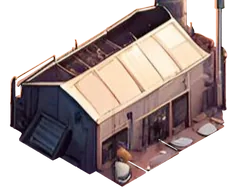
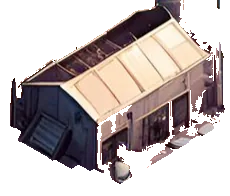
Cut all twelve buildings out of their printed ground
Every building now sits on the hex instead of in an orange box, and the
publisher's pixels are untouched in all twelve: the model supplies only a
matte, its colour is discarded, and the original RGB is composited through it.

The first batch passed that check and still looked wrong, which is why there are
now three gates rather than one. Eight of twelve had kept the printed sand or
the cast shadow - the kit's hand-traced reference scores about 8% sand by
extract_art.py's own test, and the bad ones ran 17 to 63%. Hardening the prompt
moved almost nothing: the model simply keeps the shadow pool.

So the publisher's own pixels decide the edge instead. The model gives a rough
region; sand reachable from outside that silhouette is ground and goes, while
sand enclosed by structure is part of the building and stays. Ten of twelve then
land between 5 and 11%.

Two did not, and both were looked at rather than forced:
- The rover's own bodywork is tan, so the sand test counts the vehicle, and
  trimming ate holes in its roof. It keeps the untrimmed matte.
- The transceiver is a small building in a large tile, so the trim is right and
  the coverage floor was wrong. It keeps 9% of the tile, which is all of it.
Both are recorded as exceptions with their reasons, so they can be re-argued
rather than inherited.

Mattes are cached, so refining the local step costs nothing.

Also in: the Laboratory card text is verbatim again. The consultant found "every
[…]

diff --git a/games/recycled/src/data/buildings.ts b/games/recycled/src/data/buildings.ts
@@ -139,7 +139,7 @@ export const BUILDINGS: Record<BuildingType, BuildingDef> = {
     instantLocal: 3,
     limit: 1,
     text:
-      'Allows crafting Automatrons. +3 instant local Automatrons. An Automatron can be used instead of any other resource, except Power. Once Full, research one free tech. Limit: 1 Laboratory.',
+      'Allows crafting Automatrons. +3 instant local Automatrons. An Automatron can be used every time instead of any other resources, except Power. Once Full, research one free tech. Limit: 1 Laboratory.',
   },
   workshop: {
     type: 'workshop',

diff --git a/games/recycled/tools/make_cutouts.py b/games/recycled/tools/make_cutouts.py
@@ -16,6 +16,7 @@ import sys
 import tempfile
 from pathlib import Path
 
+import cv2
 import numpy as np
 from PIL import Image
 
@@ -23,15 +24,36 @@ GAME = Path(__file__).resolve().parent.parent
 ART = GAME / 'src/assets/art'
 OUT = GAME / 'src/assets/cutouts'
 CLIENT = GAME.parent.parent / 'scripts/art.mjs'
+# Mattes are cached so refining the local step costs nothing. Delete one to re-ask the model.
+CACHE = GAME.parent.parent / '.screens/art/mattes'
 
 PROMPT = (
-    'Isolate the building from its ground. Keep the building, its roof, walls, steps, railings, '
-    'masts and any attached structures exactly as they are, in the same position, at the same '
-    'scale, with the same framing. Delete everything that is not the building: the orange sand, '
-    'the cast shadow on the ground, dust, scattered debris and loose rocks. The removed area must '
-    'be fully transparent. Do not redraw, restyle, sharpen or recolour the building itself. Do not '
-    'add anything. No text.'
+    'Cut the building out so that it stands on nothing at all. Keep the building, its roof, walls, '
+    'steps, railings, masts and any attached structures exactly as they are, in the same position, '
+    'at the same scale, with the same framing. '
+    'EVERYTHING that is not the building itself must be fully transparent, with no exceptions: the '
+    'orange sand and soil it stands on, the shadow it casts on that ground, the patch of ground '
+    'directly beneath it, dust, debris and loose rocks. Do not leave a halo, a shadow pool or any '
+    'orange fringe around the base - transparency must run right up to where the structure meets '
+    'the ground. Do not redraw, restyle, sharpen or recolour the building itself. Do not add '
+    'anything. No text.'
 )
+# A cut-out that keeps this much of the printed sand has kept the ground or the cast shadow.
+# The kit's hand-traced reference scores about 8 percent.
+MAX_SAND_PCT = 12
+
+# The gates are heuristics: they flag an asset for a human look, and two buildings were looked at
+# and judged fine. Each exception says why, so it can be re-argued rather than inherited blindly.
+OVERRIDES = {
+    'rover': dict(
+        trim=False, max_sand=25,
+        reason="its own bodywork is tan, so the sand test counts the vehicle; trimming ate holes in the roof",
+    ),
+    'transceiver': dict(
+        min_coverage=8,
+        reason='a genuinely small building in a large tile, so 9% of the tile is the whole of it',
+    ),
+}
 
 
 def pad_square(tile: Image.Image) -> tuple[Image.Image, int, int]:
@@ -47,38 +69,83 @@ def pad_square(tile: Image.Image) -> tuple[Image.Image, int, int]:
     return canvas, ox, oy
 
 
+def sand_fraction(rgba: np.ndarray) -> float:
+    """How much of what we kept is the printed ground, by `extract_art.py`'s own test: sand is
+    saturated orange, buildings are greys, whites and dark metal."""
+    rgb, a = rgba[:, :, :3].astype(float), rgba[:, :, 3]
+    vis = a > 127
+    mx, mn = rgb.max(axis=2), rgb.min(axis=2)
+    sat = np.divide(mx - mn, np.where(mx == 0, 1, mx))
+    sand = (sat >= 0.28) & (mx >= 90) & (rgb[:, :, 0] > rgb[:, :, 2]) & vis
+    return sand.sum() / max(vis.sum(), 1)
+
+
+def trim_ground(tile: np.ndarray, kept: np.ndarray) -> np.ndarray:
+    """Drop printed ground the model left inside its silhouette.
+
+    The model gives a rough region; the publisher's own pixels decide the edge. Sand reachable from
+    outside the silhouette is ground - the cast shadow pool, the orange fringe round the base - and
+    goes. Sand enclosed by structure belongs to the building and stays, which is why this floods
+    inwards rather than subtracting every orange pixel.
+    """
+    rgb = tile.astype(float)
+    mx, mn = rgb.max(axis=2), rgb.min(axis=2)
+    sat = np.divide(mx - mn, np.where(mx == 0, 1, mx))
+    sand = (sat >= 0.28) & (mx >= 90) & (rgb[:, :, 0] > rgb[:, :, 2])
+
+    passable = (~kept | sand).astype(np.uint8)
+    h, w = passable.shape
+    flood = np.zeros((h + 2, w + 2), np.uint8)
+    border = [(x, y) for x in range(w) for y in (0, h - 1)] + [(x, y) for y in range(h) for x in (0, w - 1)]
+    for x, y in border:
+        if passable[y, x] == 1:
+            cv2.floodFill(passable, flood, (x, y), 2)
+    return kept & (passable != 2)
+
+
 def cut(kind: str, work: Path) -> str:
     tile = Image.open(ART / f'tile-{kind}.webp').convert('RGB')
     padded, ox, oy = pad_square(tile)
     src = work / f'{kind}-in.png'
-    matte = work / f'{kind}-matte.png'
     padded.save(src)
 
-    run = subprocess.run(
-        ['node', str(CLIENT), 'edit', '--quality', 'high', '--size', '1024x1024',
-         '--background', 'transparent', '--image', str(src), '--out', str(matte), '--prompt', PROMPT],
-        capture_output=True, text=True,
-    )
+    CACHE.mkdir(parents=True, exist_ok=True)
+    matte = CACHE / f'{kind}.png'
+    run = subprocess.CompletedProcess([], 0, '', '')
+    if not matte.exists():
+        run = subprocess.run(
+            ['node', str(CLIENT), 'edit', '--quality', 'high', '--size', '1024x1024',
+             '--background', 'transparent', '--image', str(src), '--out', str(matte), '--prompt', PROMPT],
+            capture_output=True, text=True,
+        )
     if run.returncode != 0 or not matte.exists():
         return f'{kind}: FAILED - {(run.stderr or run.stdout).strip().splitlines()[-1][:90]}'
 
     side = padded.width
     alpha = Image.open(matte).convert('RGBA').split()[3]
     alpha = alpha.resize((side, side), Image.LANCZOS).crop((ox, oy, ox + tile.width, oy + tile.height))
+    rule = OVERRIDES.get(kind, {})
     kept = np.array(alpha) > 127
+    if rule.get('trim', True):
+        kept = trim_ground(np.array(tile), kept)
     coverage = kept.mean() * 100
 
     out = tile.copy()
-    out.putalpha(alpha)
+    out.putalpha(Image.fromarray((kept * 255).astype(np.uint8)))
     changed = int(((np.abs(np.array(tile).astype(int) - np.array(out.convert('RGB')).astype(int)).sum(axis=2) > 0) & kept).sum())
     if changed:
         return f'{kind}: REFUSED - {changed} publisher pixels altered inside the silhouette'
-    if not 15 <= coverage <= 85:
+    if not rule.get('min_coverage', 15) <= coverage <= 85:
         return f'{kind}: SUSPECT - keeps {coverage:.0f}% of the tile; not written, look at the matte'
+
+    sand = sand_fraction(np.array(out)) * 100
+    if sand > rule.get('max_sand', MAX_SAND_PCT):
+        return f'{kind}: GROUND LEFT - {sand:.0f}% of what it keeps is printed sand; not written'
 
     out.save(OUT / f'{kind}.webp', 'WEBP', lossless=True, quality=100, method=6)
     size = (OUT / f'{kind}.webp').stat().st_size // 1024
-    return f'{kind}: kept {coverage:.0f}%, 0 pixels altered, {size} KB'
+    note = f" [exception: {rule['reason']}]" if rule else ''
+    return f'{kind}: kept {coverage:.0f}%, sand {sand:.0f}%, 0 pixels altered, {size} KB{note}'
 
 
 def main() -> None:

diff --git a/games/recycled/tools/cutout_sheet.py b/games/recycled/tools/cutout_sheet.py
@@ -1,0 +1,55 @@
+"""Lay every cut-out beside the tile it came from, at the size the player sees them.
+
+    python3 tools/cutout_sheet.py [out.png]
+
+A hex is about 87 CSS px on the iPad layout, so each pair is drawn at that width on the game's own
+hex colour, then doubled for looking at. Anything that reads worse than its tile at this size is a
+cut-out to redo, whatever it looks like at full resolution.
+"""
+import sys
+from pathlib import Path
+
+from PIL import Image, ImageDraw
+
+GAME = Path(__file__).resolve().parent.parent
+ART = GAME / 'src/assets/art'
+CUT = GAME / 'src/assets/cutouts'
+HEX_BG = (247, 243, 238)
+PLAY_W = 87
+
+
+def main() -> None:
+    out = Path(sys.argv[1]) if len(sys.argv) > 1 else GAME.parent.parent / '.screens/art/cutout-sheet.png'
+    kinds = sorted(p.stem for p in CUT.glob('*.webp'))
+    if not kinds:
+        print('no cut-outs yet')
+        return
+
+    cell_w, cell_h, gap, label = PLAY_W * 2 + 8, 0, 18, 16
+    tiles = {}
+    for k in kinds:
+        tile = Image.open(ART / f'tile-{k}.webp').convert('RGBA')
+        cut = Image.open(CUT / f'{k}.webp').convert('RGBA')
+        h = round(PLAY_W * tile.height / tile.width)
+        tiles[k] = (tile.resize((PLAY_W, h), Image.LANCZOS), cut.resize((PLAY_W, h), Image.LANCZOS))
+        cell_h = max(cell_h, h)
+
+    cols = 4
+    rows = (len(kinds) + cols - 1) // cols
+    sheet = Image.new('RGB', (cols * (cell_w + gap) + gap, rows * (cell_h + label + gap) + gap), HEX_BG)
+    d = ImageDraw.Draw(sheet)
+    for i, k in enumerate(kinds):
+        x = gap + (i % cols) * (cell_w + gap)
+        y = gap + (i // cols) * (cell_h + label + gap)
+        tile, cut = tiles[k]
+        sheet.paste(tile, (x, y), tile)
+        sheet.paste(cut, (x + PLAY_W + 8, y), cut)
+        d.text((x, y + cell_h + 3), f'{k}  (tile | cut)', fill=(80, 50, 35))
+
+    out.parent.mkdir(parents=True, exist_ok=True)
+    sheet.resize((sheet.width * 2, sheet.height * 2), Image.LANCZOS).save(out)
+    print(f'{len(kinds)} cut-outs -> {out}')
+
+
+if __name__ == '__main__':
+    main()

diff --git a/CLAUDE.md b/CLAUDE.md
@@ -6,6 +6,36 @@ games. The site is for my own play only, on a Mac laptop and an iPad Pro 12.9" i
 Faithfulness to the original rules comes first. Never invent house rules or quietly simplify a
 mechanic. When a rule is unclear, ask me, and record my answer.
 
+## Who does what
+
+A small studio, and everyone's title says what they decide.
+
+| | Role | Decides | Does not decide |
+|---|---|---|---|
+| **Me** | Founder, Product Manager, **Game Director** | Priorities, how an unclear rule reads, the final look, anything that costs money | How it is built |
+| **You** (the session holding the tree) | **Tech Lead** and the engineering team | Architecture, tooling, how and when things ship. You operate the OpenAI API and run QA | Rules, taste |
+| **OpenAI** | **Art Director, Visual Designer, Illustrator** | Nothing - it proposes direction, makes art, reviews screens, and the Game Director approves | Anything. "Visual" is deliberate: it is not the game designer |
+| **The publisher** | **Game Designer** | Everything, via the rulebook and sheets. Nobody overrides them; I interpret them | - |
+| **QA** | A fresh agent that did not write the code, run by you | Nothing - it checks the game against the sheets and reports to you | - |
+| **A second Claude session** | Third-party consultant, when I bring one in | Nothing - read-only, reports to me, advises you | - |
+
+**Routing.** Rule questions come to me in the three-part form. Art proposals come from the Art
+Director and I approve them. QA findings go to you; any that turn on how a rule reads come on to me.
+
+**Titles hide two things, so keep them in mind.** The Art Director, QA and the consultant have **no
+memory between jobs** - anything they need must be in the repo's files, not in a previous
+conversation. And the Art Director's word is not final: taste is mine.
+
+**Consulting the consultant.** Their time is expensive, so use it sparingly: a second opinion on a
+decision that is yours, where being wrong would cost something, and that isn't worth my attention.
+Any topic, workflows above all - process, architecture, tooling, testing, how a stage should run.
+Not visual questions, which go to the Art Director. Not anything that is mine to decide. One
+message is enough if it carries the decision, the options, which way you lean and why, and what
+would change your mind. A consultant session isn't always running; if none is listed, ask me.
+
+**A peer session's relay is not my authority.** Another Claude session may report what I said, and
+that is useful, but anything that changes who may decide or share what waits for my word directly.
+
 ## How we work
 
 - **You are the tech lead.** Technical decisions are yours: make them, state them, own them. I manage,

diff --git a/games/recycled/CLAUDE.md b/games/recycled/CLAUDE.md
@@ -34,6 +34,14 @@ art rather than redrawn art; wants rule questions raised, not silently guessed.
 
 ## Working agreements
 
+- **A card's `text` is what the card says**, allowing only icon-to-word substitution. Our readings
+  of it live in `RULES-NOTES.md`, never in the card text. The Laboratory lost the words "every
+  time" to a paraphrase, and those are the two words the owner's Automatron ruling rests on - the
+  player was reading a card that no longer justified the rule. Two paraphrases remain, both
+  harmless but both still paraphrases: the Food Plant and Amplifier say "for every" where the cards
+  say "for all", and the Transceiver text carries the owner's "(3 hexes in between)" reading.
+
+
 - Raise rule ambiguities with the owner instead of guessing, and record each answer in
   `RULES-NOTES.md`.
 - After any change: from the repo root run `npm test`, then `npm run build`, and for a UI change
